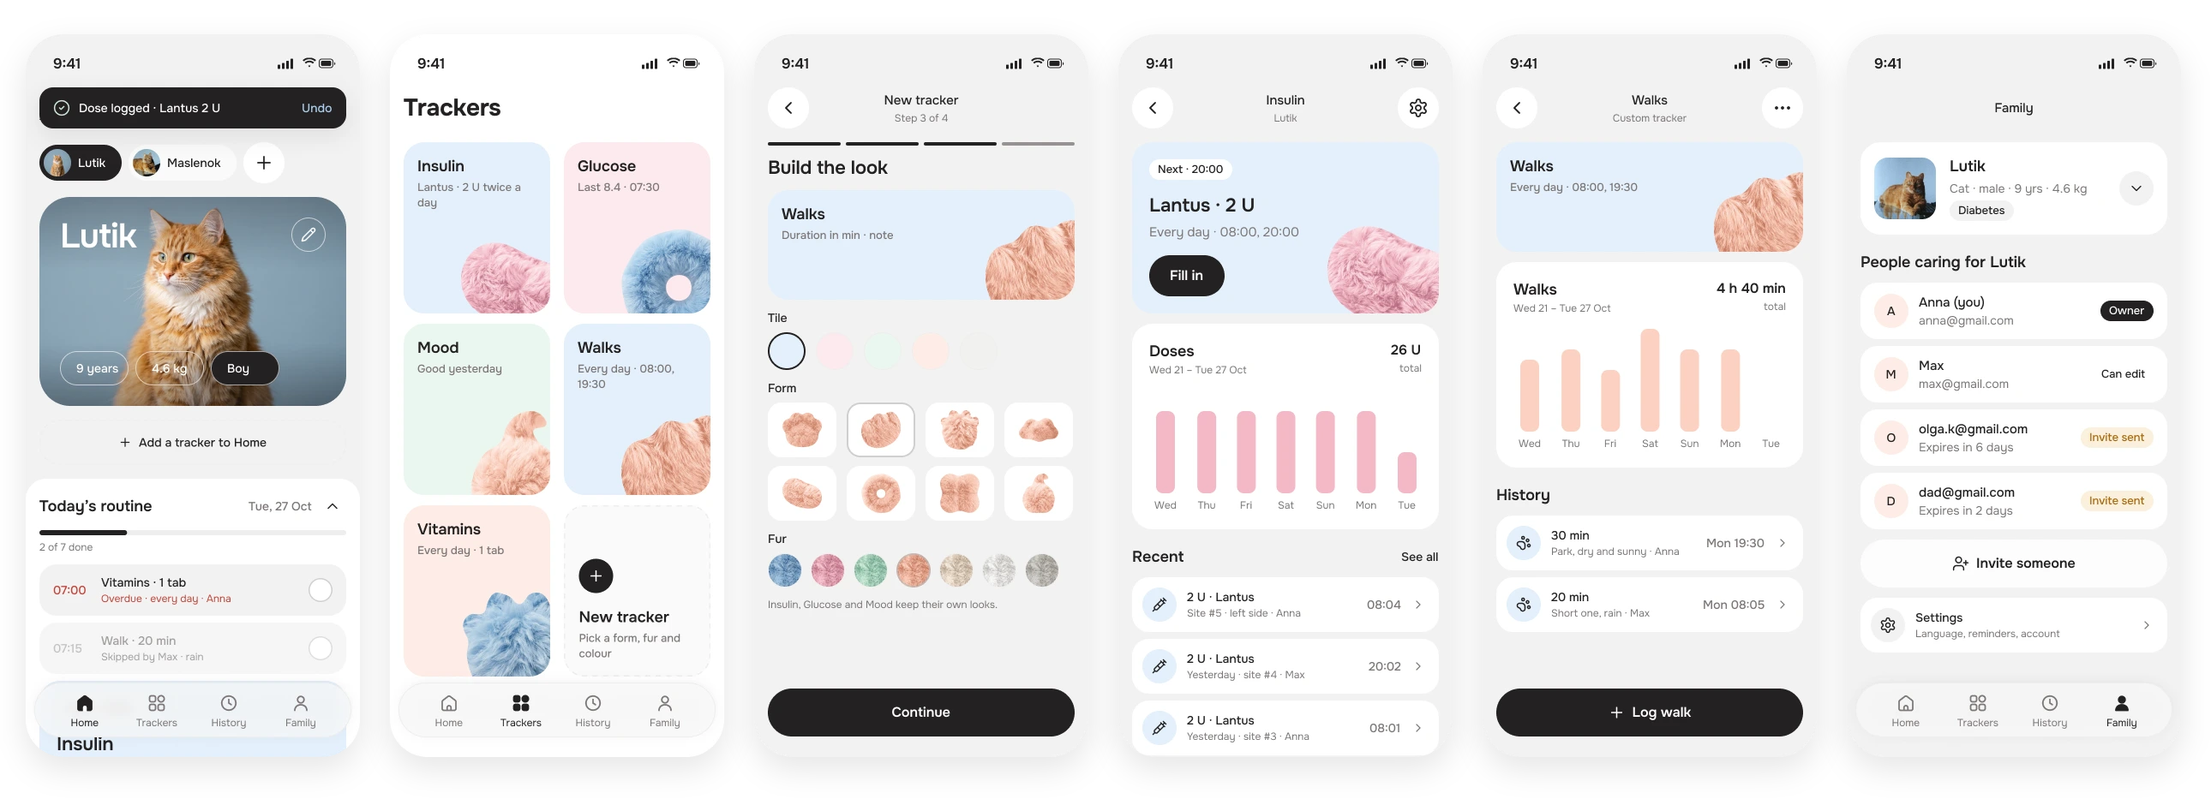
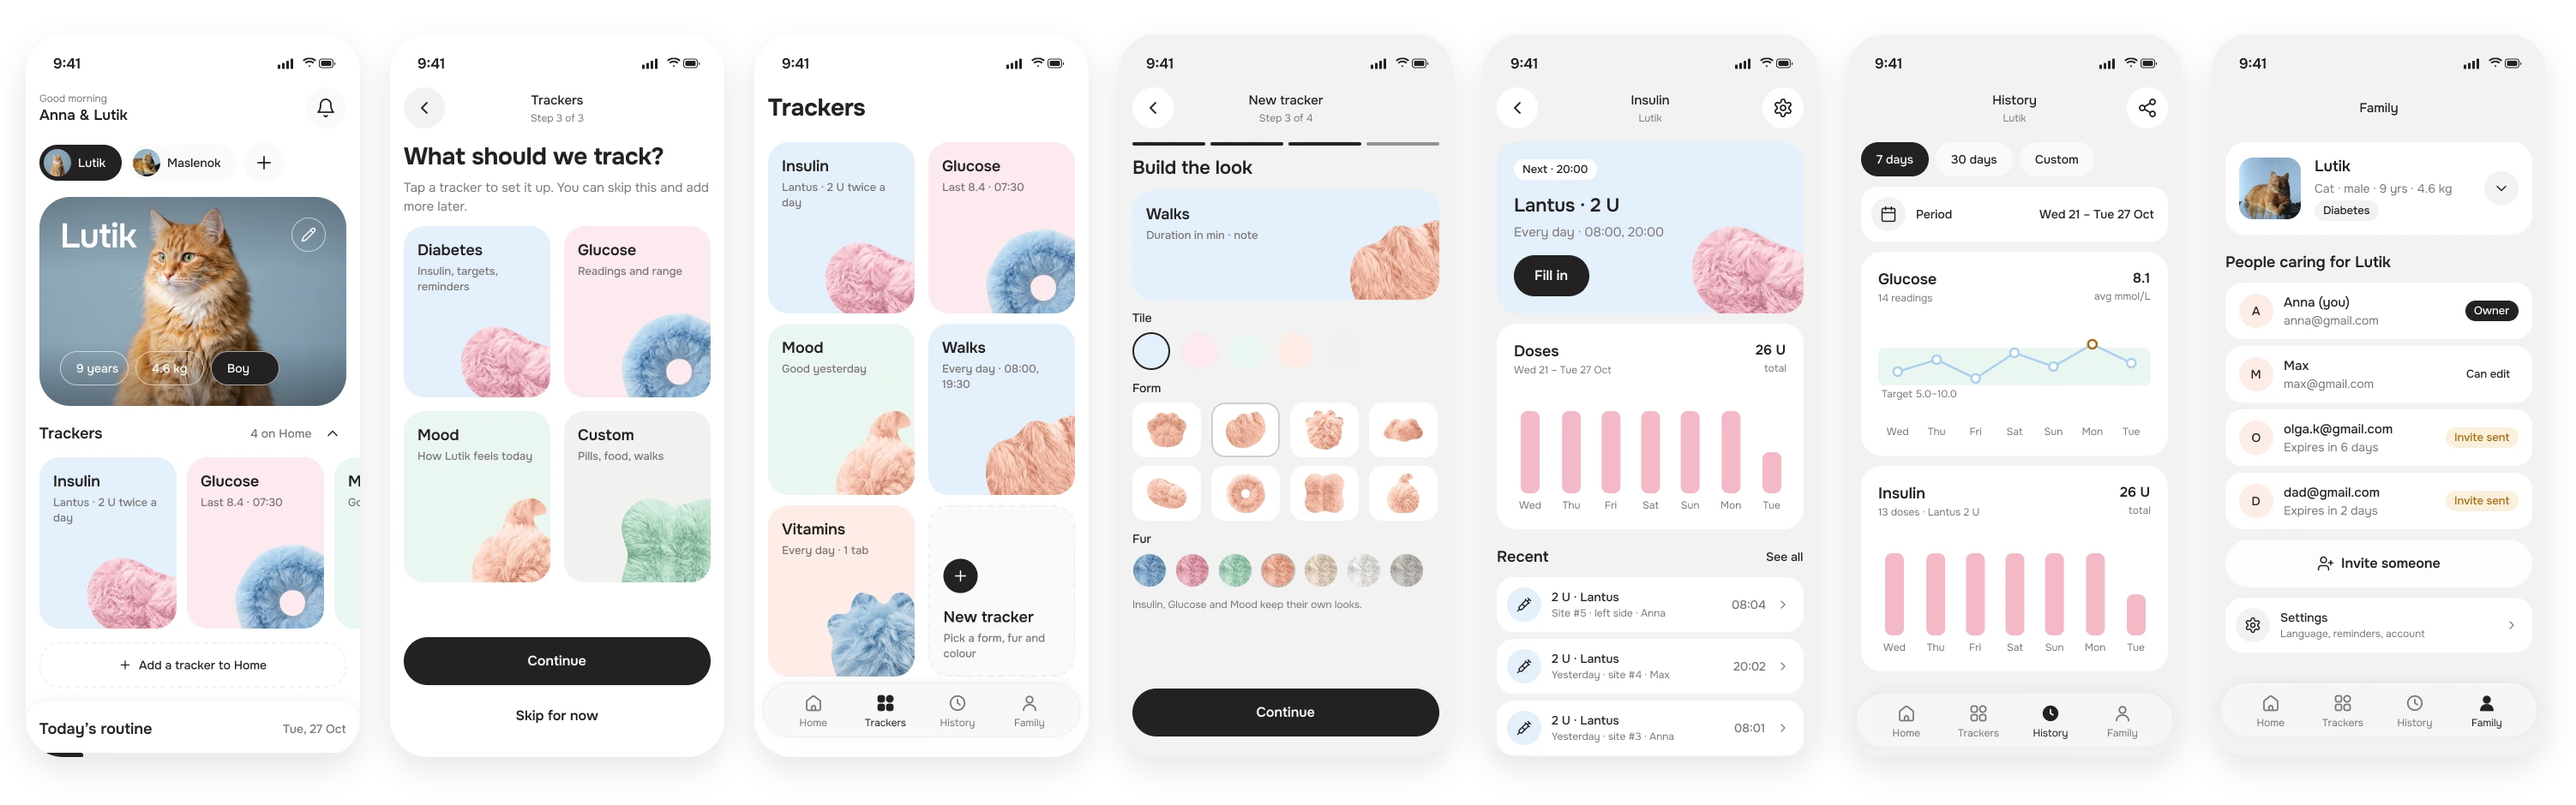
fix: cat app case shows the current English Fluffy Chumb frames
The previous cover used outdated frames. Cover and the v2 band now use the
English counterparts of the brandbook screens (R2·58): home with the trackers
block (archive 289:25865), choose trackers, trackers, builder, insulin,
history and family.

diff --git a/src/data/caseStudies.ru.js b/src/data/caseStudies.ru.js
@@ -236,7 +236,7 @@ export const catAppCaseStudy = {
           media: {
             type: 'image',
             src: petTrackerV2Screens,
-            alt: 'Экраны Fluffy Chumb: главная с делами на сегодня, трекеры, конструктор трекера, инсулин, свой трекер прогулок и семья',
+            alt: 'Экраны Fluffy Chumb: главная, выбор трекеров, трекеры, конструктор трекера, инсулин, история и семья',
           },
         },
         {

diff --git a/src/data/caseStudies.js b/src/data/caseStudies.js
@@ -236,7 +236,7 @@ export const catAppCaseStudy = {
           media: {
             type: 'image',
             src: petTrackerV2Screens,
-            alt: 'Fluffy Chumb screens: home with today’s routine, trackers, the tracker builder, insulin, a custom walks tracker and family',
+            alt: 'Fluffy Chumb screens: home, choosing trackers, trackers, the tracker builder, insulin, history and family',
           },
         },
         {
